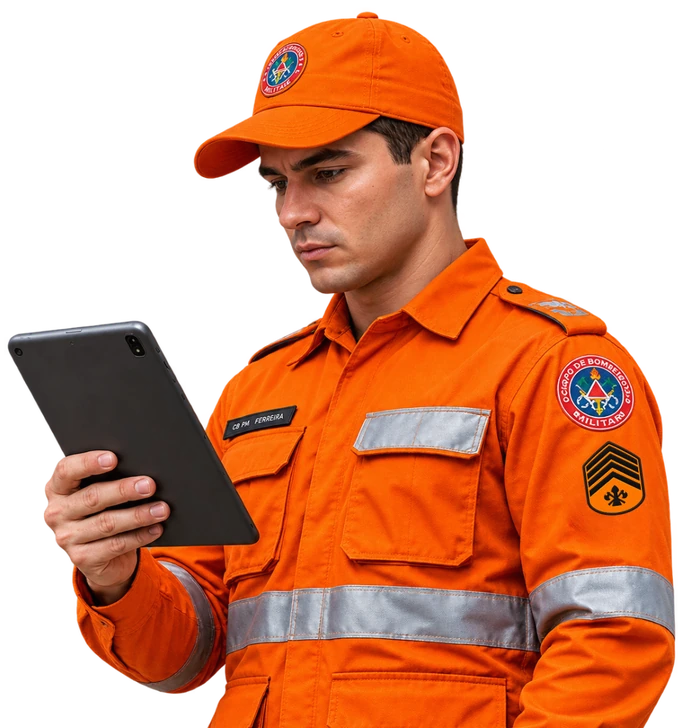
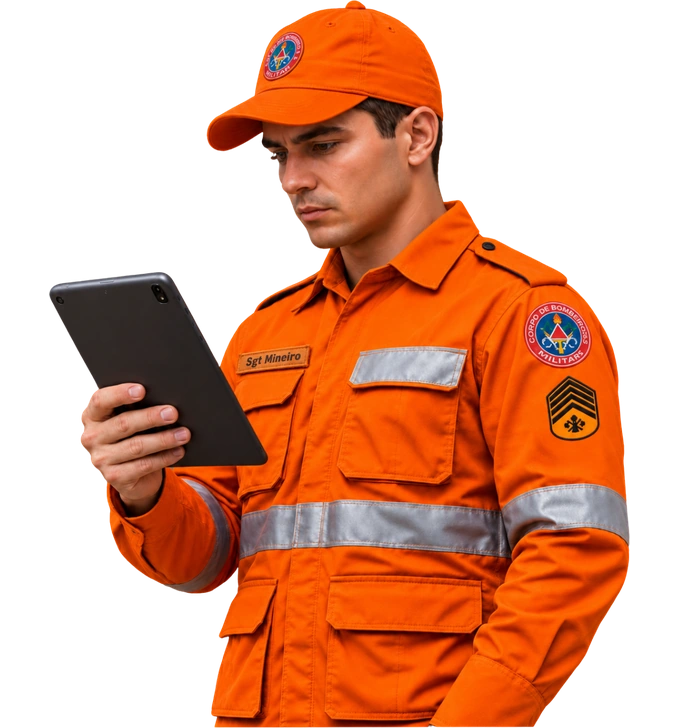
Add files via upload

diff --git a/index.html b/index.html
@@ -18,8 +18,8 @@
   <meta property="og:title" content="App do Vistoriador">
   <meta property="og:description" content="Aplicativo de apoio a vistoria, com suporte offline.">
   <meta property="og:url" content="https://gpvvicosa.github.io/controle-fiscalizatorio-gpv/">
-  <meta property="og:image" content="https://gpvvicosa.github.io/controle-fiscalizatorio-gpv/assets/miniatura-app-vistoriador-ch.jpg?v=23.9.99kv">
-  <meta property="og:image:secure_url" content="https://gpvvicosa.github.io/controle-fiscalizatorio-gpv/assets/miniatura-app-vistoriador-ch.jpg?v=23.9.99kv">
+  <meta property="og:image" content="https://gpvvicosa.github.io/controle-fiscalizatorio-gpv/assets/miniatura-app-vistoriador-ch.jpg?v=23.9.99lb">
+  <meta property="og:image:secure_url" content="https://gpvvicosa.github.io/controle-fiscalizatorio-gpv/assets/miniatura-app-vistoriador-ch.jpg?v=23.9.99lb">
   <meta property="og:image:type" content="image/jpeg">
   <meta property="og:image:width" content="1200">
   <meta property="og:image:height" content="675">
@@ -29,7 +29,7 @@
   <meta name="twitter:card" content="summary_large_image">
   <meta name="twitter:title" content="App do Vistoriador">
   <meta name="twitter:description" content="Aplicativo de apoio a vistoria, com suporte offline.">
-  <meta name="twitter:image" content="https://gpvvicosa.github.io/controle-fiscalizatorio-gpv/assets/miniatura-app-vistoriador-ch.jpg?v=23.9.99kv">
+  <meta name="twitter:image" content="https://gpvvicosa.github.io/controle-fiscalizatorio-gpv/assets/miniatura-app-vistoriador-ch.jpg?v=23.9.99lb">
 
   <link rel="canonical" href="https://gpvvicosa.github.io/controle-fiscalizatorio-gpv/">
   <title>App do Vistoriador</title>
@@ -44,11 +44,11 @@
       } catch (e) {}
     })();
   </script>
-  <link rel="manifest" href="app-vistoriador-ck.webmanifest?v=23.9.99kv">
-  <link rel="preload" as="image" href="assets/splash-app-vistoriador.webp?v=23.9.99kv" media="(max-width: 899px)" fetchpriority="high">
-  <link rel="preload" as="image" href="assets/splash-app-vistoriador-desktop.webp?v=23.9.99kv" media="(min-width: 900px)" fetchpriority="high">
-  <link rel="icon" type="image/png" sizes="192x192" href="assets/app-vistoriador-icon-192-ck.png?v=23.9.99kv">
-  <link rel="apple-touch-icon" href="assets/app-vistoriador-icon-192-ck.png?v=23.9.99kv">
+  <link rel="manifest" href="app-vistoriador-ck.webmanifest?v=23.9.99lb">
+  <link rel="preload" as="image" href="assets/splash-app-vistoriador.webp?v=23.9.99lb" media="(max-width: 899px)" fetchpriority="high">
+  <link rel="preload" as="image" href="assets/splash-app-vistoriador-desktop.webp?v=23.9.99lb" media="(min-width: 900px)" fetchpriority="high">
+  <link rel="icon" type="image/png" sizes="192x192" href="assets/app-vistoriador-icon-192-ck.png?v=23.9.99lb">
+  <link rel="apple-touch-icon" href="assets/app-vistoriador-icon-192-ck.png?v=23.9.99lb">
   <style id="gpv-critical-boot">
     html,body{margin:0;min-height:100%;font-family:Arial,Helvetica,sans-serif}
     html,body{background:#efe6dc}
@@ -56,7 +56,7 @@
     *,*::before,*::after{box-sizing:border-box}
     img{max-width:100%;height:auto}
     .hero-banner{display:block;width:100%;height:auto}
-    .auth-gate{display:none;position:fixed;inset:0;z-index:10000;align-items:center;justify-content:center;padding:18px;background:linear-gradient(180deg,rgba(45,3,5,.82),rgba(45,3,5,.96)),url("assets/splash-app-vistoriador.webp?v=23.9.99kv") center 28%/cover no-repeat}
+    .auth-gate{display:none;position:fixed;inset:0;z-index:10000;align-items:center;justify-content:center;padding:18px;background:linear-gradient(180deg,rgba(45,3,5,.82),rgba(45,3,5,.96)),url("assets/splash-app-vistoriador.webp?v=23.9.99lb") center 28%/cover no-repeat}
     .auth-gate.show{display:flex}
     .auth-card{width:min(440px,100%);max-height:94vh;overflow:auto;background:linear-gradient(180deg,rgba(76,10,12,.96),rgba(45,5,7,.98));border:1px solid rgba(246,190,55,.38);border-radius:24px;padding:24px 20px;text-align:center;color:#fff}
     .auth-logo-wrap{width:104px;height:104px;margin:0 auto 12px;border-radius:25px;overflow:hidden}
@@ -70,7 +70,7 @@
     .gpv-splash-status #loadingSubtext[hidden]{display:none!important}
     html.gpv-aux-entry body:not(.gpv-aux-auth-visible):not(.aux-notifications-mode)>*:not(#loadingOverlay):not(#authGate):not(#appStatus){visibility:hidden!important}
   </style>
-  <link rel="stylesheet" href="styles.css?v=23.9.99kv">
+  <link rel="stylesheet" href="styles.css?v=23.9.99lb">
   <style id="gpv-jz-mobile-choice-layer">
     /* V23.9.99jz — o seletor móvel precisa ficar acima dos modais de cadastro/ficha. */
     @media (max-width: 820px), (pointer: coarse) {
@@ -2361,7 +2361,7 @@
 
 
   <style id="gpv-kl-identidade-institucional">
-    /* V23.9.99kv: padronização visual sem alterar semântica operacional.
+    /* V23.9.99lb: padronização visual sem alterar semântica operacional.
        Vermelho de multa/atrasos, verde de regularização e alertas continuam intactos. */
     :root {
       --gpv-kl-grafite:#252c35;
@@ -2783,7 +2783,7 @@
 
 
   <style id="gpv-km-topo-icones-maiores">
-    /* V23.9.99kv — ampliação moderada dos ícones e badges do topo no desktop,
+    /* V23.9.99lb — ampliação moderada dos ícones e badges do topo no desktop,
        preservando a identidade KL e sem alterar a lógica dos botões. */
     @media (min-width:1181px) {
       body.records-mode .topbar.app-header .dashboard-header-actions {
@@ -2839,7 +2839,7 @@
 
 
   <style id="gpv-kn-topo-reposicionamento-desktop">
-    /* V23.9.99kv — reposiciona o título e o bombeiro no topo desktop,
+    /* V23.9.99lb — reposiciona o título e o bombeiro no topo desktop,
        reduzindo o vazio visual entre eles e afastando a legenda da esquerda. */
     @media (min-width:1181px) {
       body.records-mode .topbar.app-header .topbar-inner {
@@ -2899,7 +2899,7 @@
 
 
   <style id="gpv-ko-proporcoes-desktop">
-    /* V23.9.99kv — triângulo mais curto e bombeiro próximo ao centro;
+    /* V23.9.99lb — triângulo mais curto e bombeiro próximo ao centro;
        somente telas de computador. Nenhuma ação ou dado é modificado. */
     @media(min-width:1181px){
       body.records-mode .topbar.app-header .gpv-kh-header-banner::before{
@@ -2931,10 +2931,15 @@
     }
   </style>
 
-  <link rel="stylesheet" href="assets/gpv-identidade-kp.css?v=23.9.99kv">
-  <link rel="stylesheet" href="assets/gpv-inicio-ks.css?v=23.9.99kv">
-  <link rel="stylesheet" href="assets/gpv-refino-kt.css?v=23.9.99kv">
-  <link rel="stylesheet" href="assets/gpv-refino-ku.css?v=23.9.99kv">
+  <link rel="stylesheet" href="assets/gpv-identidade-kp.css?v=23.9.99lb">
+  <link rel="stylesheet" href="assets/gpv-inicio-ks.css?v=23.9.99lb">
+  <link rel="stylesheet" href="assets/gpv-refino-kt.css?v=23.9.99lb">
+  <link rel="stylesheet" href="assets/gpv-refino-ku.css?v=23.9.99lb">
+  <link rel="stylesheet" href="assets/gpv-saudacao-kw.css?v=23.9.99lb">
+  <link rel="stylesheet" href="assets/gpv-saudacao-kx.css?v=23.9.99lb">
+  <link rel="stylesheet" href="assets/gpv-saudacao-ky.css?v=23.9.99lb">
+  <link rel="stylesheet" href="assets/gpv-saudacao-kz.css?v=23.9.99lb">
+  <link rel="stylesheet" href="assets/gpv-banner-lb.css?v=23.9.99lb">
 </head>
 <body>
 <div id="appStatus" hidden aria-live="polite"></div>
@@ -2943,7 +2948,7 @@
   <div class="auth-gate" id="authGate" aria-hidden="false">
     <section class="auth-card" role="dialog" aria-modal="true" aria-labelledby="authTitle">
       <div class="auth-logo-wrap" aria-hidden="true">
-        <img src="assets/app-vistoriador-icon-512-ck.png?v=23.9.99kv" width="512" height="512" alt="">
+        <img src="assets/app-vistoriador-icon-512-ck.png?v=23.9.99lb" width="512" height="512" alt="">
       </div>
       <span class="auth-kicker">Controle de Vistorias</span>
       <h1 id="authTitle">App do Vistoriador</h1>
@@ -3003,7 +3008,7 @@
   <header class="topbar app-header">
     <div class="topbar-inner">
       <div class="brand-mark" aria-hidden="true">
-        <img class="brand-form-logo" src="assets/app-vistoriador-icon-192-ck.png?v=23.9.99kv" alt="">
+        <img class="brand-form-logo" src="assets/app-vistoriador-icon-192-ck.png?v=23.9.99lb" alt="">
         <img class="brand-dashboard-logo" src="assets/logo-cbmmg.png" alt="">
       </div>
 
@@ -3025,14 +3030,14 @@
       <!-- Banner aprovado integrado à faixa grafite em telas grandes; duplicata
            visual da imagem móvel, sem alterar links, botões ou suas permissões. -->
       <div class="gpv-kh-header-banner" aria-label="Controle de Vistorias — GPV — 3º Pelotão Viçosa">
-        <img class="gpv-kk-legacy-banner" src="assets/cabecalho.webp?v=23.9.99kv" width="2173" height="724" alt="" decoding="async">
+        <img class="gpv-kk-legacy-banner" src="assets/cabecalho.webp?v=23.9.99lb" width="2173" height="724" alt="" decoding="async">
         <!-- Identidade composta na própria faixa grafite; o bombeiro é uma imagem transparente independente. -->
         <div class="gpv-kk-identity">
           <span class="gpv-kk-kicker"><span class="gpv-kk-kicker-bar" aria-hidden="true"></span>GPV · PREVENÇÃO E VISTORIA</span>
           <strong>CONTROLE DE VISTORIAS</strong>
           <span class="gpv-kk-subtitle"><b>GPV</b><span class="gpv-kk-subtitle-separator" aria-hidden="true"></span>3º PELOTÃO — VIÇOSA</span>
         </div>
-        <img class="gpv-kk-bombeiro" src="assets/bombeiro-topo.webp?v=23.9.99kv" width="680" height="728" alt="" aria-hidden="true" decoding="async">
+        <img class="gpv-kk-bombeiro" src="assets/bombeiro-topo.webp?v=23.9.99lb" width="680" height="728" alt="" aria-hidden="true" decoding="async">
       </div>
 
       <div class="dashboard-header-actions" aria-label="Ações do painel">
@@ -3795,7 +3800,8 @@
 
   <main class="page">
     <section class="hero gpv-kg-hero" aria-label="Controle de Vistorias — GPV Viçosa">
-      <img class="hero-banner" src="assets/cabecalho.webp?v=23.9.99kv" width="2173" height="724" loading="eager" decoding="async" alt="Controle de Vistorias — GPV, 3º Pelotão Viçosa">
+      <img class="hero-banner" src="assets/cabecalho.webp?v=23.9.99lb" width="2173" height="724" loading="eager" decoding="async" alt="Controle de Vistorias — GPV, 3º Pelotão Viçosa">
+      <img class="gpv-lb-hero-bombeiro" src="assets/bombeiro-topo.webp?v=23.9.99lb" alt="" aria-hidden="true" loading="eager" decoding="async" width="680" height="728">
     </section>
 
     <nav class="app-view-nav" aria-label="Áreas do aplicativo">
@@ -3905,7 +3911,7 @@
 
       <div class="dashboard-operational-alerts gpv-operational-overview" aria-label="Resumo operacional do dia">
         <button type="button" class="ddu-summary-card dashboard-ddu-summary-card" id="dduSummaryCard" hidden aria-label="Abrir DDU pendentes para vistoria">
-          <span class="ddu-summary-brand" aria-hidden="true"><img src="assets/logo-ddu-181.webp?v=23.9.99kv" alt=""></span>
+          <span class="ddu-summary-brand" aria-hidden="true"><img src="assets/logo-ddu-181.webp?v=23.9.99lb" alt=""></span>
           <span class="ddu-summary-copy"><strong>DDU aguardando vistoria</strong><small id="dduSummaryText">Carregando demandas...</small></span>
           <span class="ddu-summary-count" id="dduSummaryCount">—</span>
         </button>
@@ -4172,7 +4178,7 @@
           <div class="operational-shortcuts-grid" aria-label="Pendências operacionais">
             <div class="programmed-summary-row ddu-vistoria-summary-row" id="dduVistoriaSummaryRow" hidden>
               <button type="button" class="ddu-summary-card vistoria-ddu-summary-card" id="dduVistoriaSummaryCard" aria-label="Abrir DDU pendentes para vistoria">
-                <span class="ddu-summary-brand" aria-hidden="true"><img src="assets/logo-ddu-181.webp?v=23.9.99kv" alt=""></span>
+                <span class="ddu-summary-brand" aria-hidden="true"><img src="assets/logo-ddu-181.webp?v=23.9.99lb" alt=""></span>
                 <span class="ddu-summary-copy"><strong>DDU aguardando vistoria</strong><small id="dduVistoriaSummaryText">Carregando demandas...</small></span>
                 <span class="ddu-summary-count" id="dduVistoriaSummaryCount">—</span>
               </button>
@@ -5826,7 +5832,7 @@
 
   <div class="review-overlay" id="dduRegisterModal" hidden>
     <div class="review-card prepare-modal-card" role="dialog" aria-modal="true" aria-labelledby="dduRegisterTitle">
-      <div class="review-head ddu-register-head"><div class="ddu-register-title-wrap"><span class="ddu-register-brand" aria-hidden="true"><img src="assets/logo-ddu-181.webp?v=23.9.99kv" alt=""></span><div><h2 id="dduRegisterTitle">Cadastrar DDU</h2><p>Demanda recebida pelo DDU — Disque Denúncia Unificado. Após salvar, o DDU ficará disponível para toda a equipe do GPV até a conclusão da vistoria.</p></div></div><button class="icon-btn" id="dduRegisterCloseBtn" type="button">×</button></div>
+      <div class="review-head ddu-register-head"><div class="ddu-register-title-wrap"><span class="ddu-register-brand" aria-hidden="true"><img src="assets/logo-ddu-181.webp?v=23.9.99lb" alt=""></span><div><h2 id="dduRegisterTitle">Cadastrar DDU</h2><p>Demanda recebida pelo DDU — Disque Denúncia Unificado. Após salvar, o DDU ficará disponível para toda a equipe do GPV até a conclusão da vistoria.</p></div></div><button class="icon-btn" id="dduRegisterCloseBtn" type="button">×</button></div>
       <div class="review-body"><div class="grid prepare-grid">
         <div class="field"><label for="dduNumero">Nº / identificação do DDU</label><input id="dduNumero" autocomplete="off"></div>
         <div class="field"><label for="dduRecebimento">Data de recebimento</label><input id="dduRecebimento" type="date"></div>
@@ -5907,7 +5913,7 @@
   <div class="review-overlay" id="dduListModal" hidden>
     <div class="review-card ddu-list-card" role="dialog" aria-modal="true" aria-labelledby="dduListTitle">
       <div class="review-head ddu-list-head">
-        <div class="ddu-list-title-wrap"><span class="ddu-list-title-brand" aria-hidden="true"><img src="assets/logo-ddu-181.webp?v=23.9.99kv" alt=""></span><div><h2 id="dduListTitle">DDU — Disque Denúncia Unificado</h2><small>Demandas compartilhadas pela equipe do GPV • 181</small></div></div>
+        <div class="ddu-list-title-wrap"><span class="ddu-list-title-brand" aria-hidden="true"><img src="assets/logo-ddu-181.webp?v=23.9.99lb" alt=""></span><div><h2 id="dduListTitle">DDU — Disque Denúncia Unificado</h2><small>Demandas compartilhadas pela equipe do GPV • 181</small></div></div>
         <button class="icon-btn" id="dduListCloseBtn" type="button" aria-label="Fechar DDU">×</button>
       </div>
       <div class="review-body ddu-list-body"><div id="dduListStatus" class="ddu-list-status"></div><div id="dduList" class="ddu-list"></div></div>
@@ -5977,7 +5983,7 @@
     <section class="review-card registered-inspection-detail-card" role="dialog" aria-modal="true" aria-labelledby="registeredInspectionDetailTitle">
       <div class="review-head registered-inspection-detail-head">
         <div class="registered-inspection-detail-title-wrap">
-          <span class="registered-inspection-detail-brand" id="registeredInspectionDetailBrand" aria-hidden="true" hidden><img src="assets/logo-ddu-181.webp?v=23.9.99kv" alt=""></span>
+          <span class="registered-inspection-detail-brand" id="registeredInspectionDetailBrand" aria-hidden="true" hidden><img src="assets/logo-ddu-181.webp?v=23.9.99lb" alt=""></span>
           <div>
             <div class="registered-inspection-detail-eyebrow-row">
               <span class="registered-inspection-detail-kicker" id="registeredInspectionDetailKicker">Vistoria cadastrada</span>
@@ -6168,7 +6174,7 @@
           <span class="useful-link-arrow" aria-hidden="true">↗</span>
         </a>
         <a class="useful-link-card" data-link-tone="blue" href="https://web.sids.mg.gov.br/ddu/#/dashboard" target="_blank" rel="noopener noreferrer">
-          <span class="useful-link-icon useful-link-ddu-brand" aria-hidden="true"><img src="assets/logo-ddu-181.webp?v=23.9.99kv" alt=""></span>
+          <span class="useful-link-icon useful-link-ddu-brand" aria-hidden="true"><img src="assets/logo-ddu-181.webp?v=23.9.99lb" alt=""></span>
           <span><strong>DDU</strong><small>Painel e consultas operacionais</small></span>
           <span class="useful-link-arrow" aria-hidden="true">↗</span>
         </a>
@@ -6509,13 +6515,13 @@
     <picture class="gpv-splash-picture" aria-hidden="true">
       <source
         media="(min-width: 900px)"
-        srcset="assets/splash-app-vistoriador-desktop.webp?v=23.9.99kv"
+        srcset="assets/splash-app-vistoriador-desktop.webp?v=23.9.99lb"
         width="1672"
         height="941"
       >
       <img
         class="gpv-splash-art"
-        src="assets/splash-app-vistoriador.webp?v=23.9.99kv"
+        src="assets/splash-app-vistoriador.webp?v=23.9.99lb"
         alt=""
         width="941"
         height="1672"
@@ -6679,10 +6685,10 @@
       <button id="gpvUpdateLaterBtn" type="button">Depois</button>
     </div>
   </aside>
-  <script src="config.js?v=23.9.99kv"></script>
-  <script src="ocupacoes.js?v=23.9.99kv"></script>
-  <script src="notificacoes-infoscip.js?v=23.9.99kv"></script>
-  <script src="app.js?v=23.9.99kv"></script>
+  <script src="config.js?v=23.9.99lb"></script>
+  <script src="ocupacoes.js?v=23.9.99lb"></script>
+  <script src="notificacoes-infoscip.js?v=23.9.99lb"></script>
+  <script src="app.js?v=23.9.99lb"></script>
 
 </body>
 </html>

diff --git a/sw.js b/sw.js
@@ -1,4 +1,8 @@
-// V23.9.99la — novos fundos de abertura e miniatura com a imagem atualizada do bombeiro; cache renovado para mobile e desktop.
+// V23.9.99lb — restaura shell KZ e atualiza bombeiro transparente do banner em desktop e mobile.
+// V23.9.99lb — animacao visual leve de ate 9,2s, sem espera adicional nem alteracao de logica.
+// V23.9.99ky — texto flutuante sobre a foto; mensagens e sincronizacao inalteradas.
+// V23.9.99kx — visual da saudacao com foto natural e legenda responsiva; ciclo operacional intocado.
+// V23.9.99kw — fundos dedicados da saudação e animação visual, sem alteração de ativação do PWA.
 // V23.9.99kv — nova identidade de abertura, ícones e miniatura; preserva lógica de atualização segura da KU.
 // V23.9.99ku — refinamento apenas visual de indicadores, Programadas e Consulta; SW operacional inalterado.
 // V23.9.99kp — nova camada visual interna e cache do CSS; atualização protegida mantida.
@@ -55,9 +59,9 @@
 // V23.9.99hm — atualizações descobertas após a abertura ficam em segundo plano até a próxima abertura ou ação manual.
 // V23.9.99hl — shell da abertura confiável com saudação e continuidade visual dos registros recentes.
 // V23.9.99hk — shell do rollback controlado das Metas para a rotina estável HG com backend HK.
-const CACHE_NAME = 'gpv-vistorias-shell-20261105-v23-9-99-kv-abertura-imagens';
+const CACHE_NAME = 'gpv-vistorias-shell-20261106-v23-9-99-lb-corrige-la-banner';
 const RUNTIME_CACHE_NAME = 'gpv-vistorias-runtime-documentos-v1';
-const VERSION = '23.9.99kv';
+const VERSION = '23.9.99lb';
 
 // V23.9.99hj — restaura o contrato estável de consulta das Metas através do gateway; backend HI preservado.
 // V23.9.99hi — novo shell publica revalidação das Metas e backend HI para Eventos declaratórios.
@@ -74,6 +78,15 @@ const CORE_SHELL = [
   `./assets/gpv-inicio-ks.css?v=${VERSION}`,
   `./assets/gpv-refino-kt.css?v=${VERSION}`,
   `./assets/gpv-refino-ku.css?v=${VERSION}`,
+  `./assets/gpv-saudacao-kw.css?v=${VERSION}`,
+  `./assets/gpv-saudacao-kx.css?v=${VERSION}`,
+  `./assets/gpv-saudacao-ky.css?v=${VERSION}`,
+  `./assets/gpv-saudacao-kz.css?v=${VERSION}`,
+  `./assets/gpv-banner-lb.css?v=${VERSION}`,
+  `./assets/abertura-saudacao-mobile-kx.webp?v=${VERSION}`,
+  `./assets/abertura-saudacao-desktop-kx.webp?v=${VERSION}`,
+  `./assets/abertura-saudacao-mobile-kw.webp?v=${VERSION}`,
+  `./assets/abertura-saudacao-desktop-kw.webp?v=${VERSION}`,
   './',
   './index.html',
   `./styles.css?v=${VERSION}`,

diff --git a/app.js b/app.js
@@ -1,4 +1,4 @@
-// V23.9.99la — atualização das artes do bombeiro na abertura e miniatura, para mobile e PC; animação leve/offline preservada.
+// V23.9.99lb — hotfix da LA: recupera saudação KZ e troca bombeiro do banner sem alterar regras operacionais.
 // V23.9.99kp — identidade interna unificada por CSS; lógica operacional KO preservada.
 // V23.9.99ko — ajuste visual proporcional do topo desktop; operação da KN preservada.
 // V23.9.99kn — identidade GPV e rolagem da janela Programadas; regras operacionais KK preservadas.
@@ -83,7 +83,7 @@
       const AUTH_SHARED_DEVICE_STORAGE = 'gpvVistoriasDispositivoCompartilhadoV1';
       const AUTH_LIMITED_SESSION_HOURS = 10;
       const AUTH_CLIENT_VERSION = 'bm-v1';
-      const APP_VERSION = '23.9.99kv';
+      const APP_VERSION = '23.9.99lb';
       const APP_VERSION_DATE = '05/11/2026';
       const appBuildInfo = document.getElementById('appBuildInfo');
       if (appBuildInfo) appBuildInfo.textContent = `App do Vistoriador • V${APP_VERSION} • ${APP_VERSION_DATE}`;
@@ -25456,6 +25456,7 @@ Deseja usar o endereço cadastral do CNPJ?`,
         overlay.className = 'daily-motivational-overlay';
         overlay.setAttribute('aria-hidden', 'true');
         overlay.innerHTML = `
+          <div class="gpv-kx-caption" aria-hidden="true"><strong>CONTROLE DE VISTORIAS</strong><span>GPV • 3º PELOTÃO — VIÇOSA</span></div>
           <div class="daily-motivational-card" role="status" aria-live="polite">
             <div class="daily-motivational-mark" aria-hidden="true">✓</div>
             <span class="daily-motivational-kicker">GPV — 3º Pelotão Viçosa</span>

diff --git a/assets/gpv-banner-lb.css b/assets/gpv-banner-lb.css
@@ -1,0 +1,26 @@
+/* GPV V23.9.99lb — correção pontual do banner mobile/tablet.
+   A imagem do bombeiro é a foto transparente fornecida pelo usuário, sem
+   recriação do uniforme. Desktop reutiliza .gpv-kk-bombeiro existente.
+   NÃO altera saudação, progressão, painel, login ou regras de SW. */
+@media (max-width:1180px) {
+  body.records-mode .hero.gpv-kg-hero,
+  .hero.gpv-kg-hero {position:relative;isolation:isolate;overflow:hidden}
+  body.records-mode .hero.gpv-kg-hero::after,
+  .hero.gpv-kg-hero::after {
+    content:"";position:absolute;z-index:1;inset:0 0 0 auto;width:36%;
+    background:linear-gradient(125deg,#252c35 0%,#302832 35%,#e17b0a 100%);
+    clip-path:polygon(17% 0,100% 0,100% 100%,0 100%);
+    pointer-events:none;
+  }
+  body.records-mode .hero.gpv-kg-hero .gpv-lb-hero-bombeiro,
+  .hero.gpv-kg-hero .gpv-lb-hero-bombeiro {
+    display:block!important;position:absolute!important;z-index:2!important;
+    inset:auto 0 0 auto!important;height:100%!important;width:auto!important;
+    max-height:100%!important;max-width:38%!important;
+    object-fit:contain!important;object-position:right bottom!important;
+    pointer-events:none!important;
+  }
+}
+@media(min-width:1181px){
+  .hero.gpv-kg-hero .gpv-lb-hero-bombeiro{display:none!important}
+}
